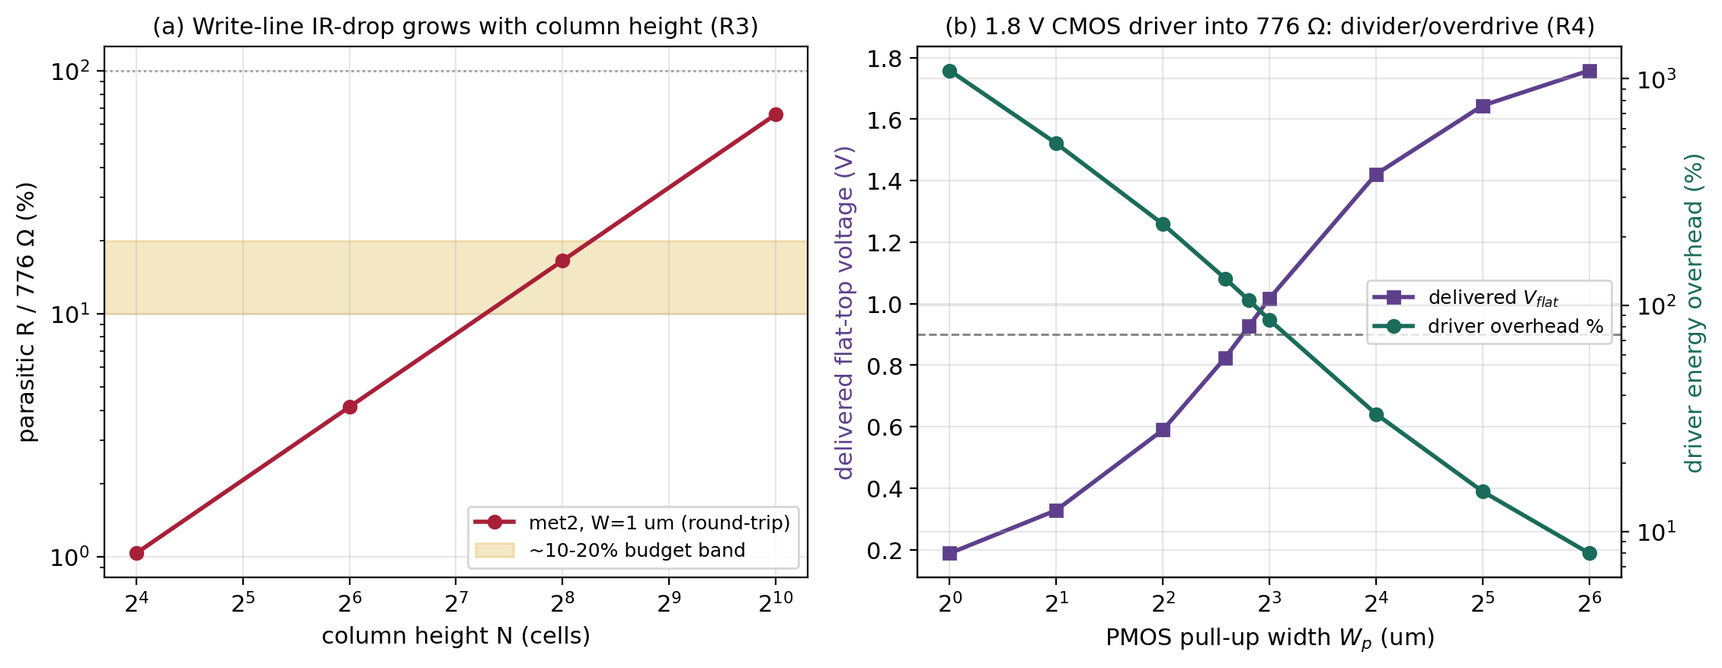
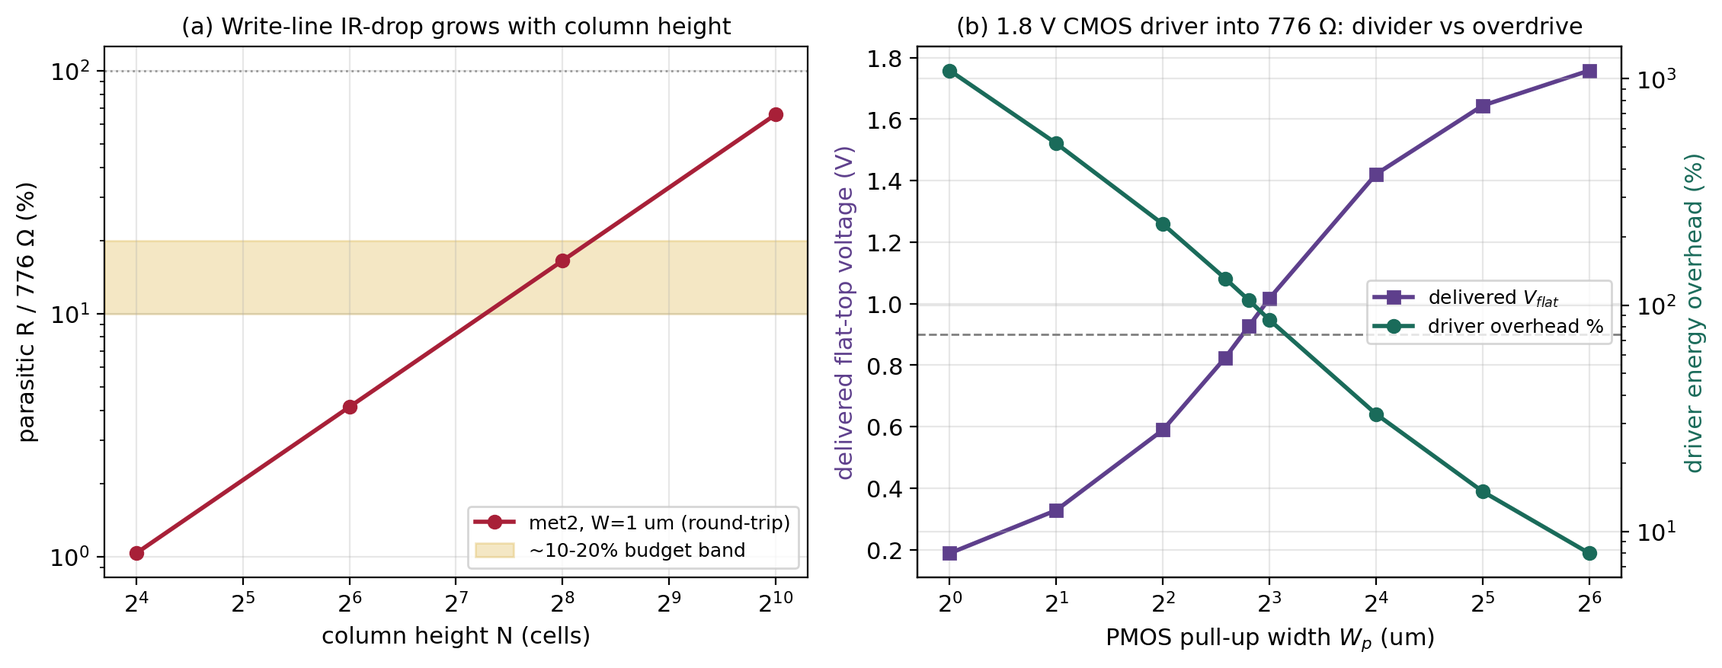
Rewrite supplement to journal-grade + forward-design framing (directives 1,2,3)
Directive 1 (deliverable journal-grade): removed all thesis-chapter cross-references and
conversational/draft language ("honest ~30-35x", "first-cut", "hero", errata/contribution codes);
self-contained prose; limitations in a normal register. Figure labels cleaned (dropped R3/R4/R6
codes, "Ch5 cfg", "honest", "prior", tool name).
Directive 3 (forward design): reframed device-physics findings -> circuit designs; added the
IR-aware per-row write pre-distortion section + figure (Supplement_local_05): p_sw collapses
0.90->0.016 along an N=256 column, pre-distortion flattens it -> position+device-aware write-DAC.
Directive 2 (validated citations): cite/distinguish arXiv:2403.19374 & 2410.16915 (readout
status quo / near-miss); reframe RC novelty and cite arXiv:2601.21807; corrected the Kent
arXiv:2509.13458 description (STT-actuated tunable RTN, not a tunable-barrier device); dropped
the News&Views as measured silicon; "finding -> design" summary table replaces the self-refutation table.

Changed region(s): [[0.5265, 0.0, 0.9292, 0.0616], [0.0929, 0.0308, 0.4336, 0.0616]]

diff --git a/eda/gen_supplement_figs.py b/eda/gen_supplement_figs.py
@@ -48,7 +48,7 @@ def fig1():
     fig, ax = plt.subplots(figsize=(6.4, 4.6))
     ax.plot(Vg, pg, "-", color=PURPLE, lw=2.2, label="behavioral sigmoid (calibrated)")
     ax.errorbar(V, pl, yerr=ci, fmt="o", color=RED, ms=6, capsize=3, lw=1.4,
-                label="LLG macrospin MC (vgsot-sim, N=200)")
+                label="macrospin LLG Monte-Carlo (200 trials)")
     ax.axvline(d["VTH"], color="0.4", ls="--", lw=1.2)
     ax.axhline(0.5, color="0.7", ls=":", lw=1.0)
     ax.text(d["VTH"] + 0.002, 0.06, r"$V_{th}=%.4f$ V" % d["VTH"], color="0.3", fontsize=9)
@@ -112,7 +112,7 @@ def fig3():
     ax[0].set_xscale("log", base=2); ax[0].set_yscale("log")
     ax[0].set_xlabel("column height N (cells)")
     ax[0].set_ylabel(r"parasitic R / 776 $\Omega$ (%)")
-    ax[0].set_title("(a) Write-line IR-drop grows with column height (R3)")
+    ax[0].set_title("(a) Write-line IR-drop grows with column height")
     ax[0].legend(fontsize=9)
     # (b) sky130 CMOS write driver: delivered V and overhead vs pull-up width (measured)
     wp = [1, 2, 4, 6, 7, 8, 16, 32, 64]
@@ -127,7 +127,7 @@ def fig3():
     ax[1].set_ylabel("delivered flat-top voltage (V)", color=PURPLE)
     ax2.set_ylabel("driver energy overhead (%)", color=GREEN)
     ax2.set_yscale("log")
-    ax[1].set_title("(b) 1.8 V CMOS driver into 776 $\\Omega$: divider/overdrive (R4)")
+    ax[1].set_title("(b) 1.8 V CMOS driver into 776 $\\Omega$: divider vs overdrive")
     ax[1].legend(handles=[l1, l2], fontsize=9, loc="center right")
     fig.tight_layout(); fig.savefig(OUT / "Supplement_local_03.png", dpi=200, bbox_inches="tight")
     plt.close(fig)
@@ -145,11 +145,11 @@ def fig4():
     ax[0].plot(E, MC, "-", color="0.6", lw=1, zorder=1)
     ax[0].set_xscale("log")
     ax[0].set_xlabel("energy per step (fJ)"); ax[0].set_ylabel("memory capacity")
-    ax[0].set_title("(a) RC iso-energy frontier: ADC bits trade MC for energy (R6)")
+    ax[0].set_title("(a) Reservoir iso-energy frontier: ADC bits trade MC for energy")
     fig.colorbar(s, ax=ax[0], label="ADC bits b")
     # (b) honest RC-vs-ESN ratio: baseline vs grounded ADC variants
     base = rc["baseline"]["ratio"]
-    labels = ["no ADC\n(prior)", "per-node\n8-bit", "col-shared\n8-bit", "col-shared\n6-bit"]
+    labels = ["readout\nw/o ADC", "per-node\n8-bit", "col-shared\n8-bit", "col-shared\n6-bit"]
     def gr(mmode, bb):
         return next(r["honest_ratio"] for r in rc["grounded"]
                    if r["M_mode"].startswith(mmode) and r["b"] == bb)
@@ -158,15 +158,42 @@ def fig4():
     ax[1].bar(labels, vals, color=cols, edgecolor="black")
     for i, v in enumerate(vals):
         ax[1].text(i, v + 0.6, "%.0f$\\times$" % v, ha="center", fontsize=10)
-    ax[1].axhspan(30, 35, color=GOLD, alpha=0.25, label="honest ~30-35x")
+    ax[1].axhspan(30, 35, color=GOLD, alpha=0.25, label="30-35x with physical ADC")
     ax[1].set_ylabel(r"energy advantage vs digital ESN ($\times$)")
-    ax[1].set_title("(b) RC-vs-ESN advantage survives the grounded ADC (Ch5 cfg)")
+    ax[1].set_title("(b) Reservoir energy advantage with a physical ADC readout")
     ax[1].legend(fontsize=9)
     fig.tight_layout(); fig.savefig(OUT / "Supplement_local_04.png", dpi=200, bbox_inches="tight")
     plt.close(fig)
 
 
+# ---------- Fig S5: forward design -- IR-aware per-row write pre-distortion ----------
+def fig5():
+    d = jload(HERO / "ir_aware_writedac_summary.json")
+    N = d["N"]; Vt = d["V_target"]; Iw = d["I_write_mA"] * 1e-3
+    rs = {"met1": 0.125, "met2": 0.125, "met3": 0.047}[d["layer"]]
+    pitch, W = d["pitch_um"], d["W_um"]
+    VTH, VT = 0.895783, 0.023414
+    r = np.arange(0, N + 1)
+    rpar = 2.0 * rs * (r * pitch / W)
+    v_nopd = Vt - Iw * rpar
+    psw = lambda v: 1.0 / (1.0 + np.exp(-(v - VTH) / VT))
+    fig, ax = plt.subplots(1, 2, figsize=(11.5, 4.6))
+    ax[0].plot(r, v_nopd, "-", color=RED, lw=2, label="no compensation (base-driven)")
+    ax[0].axhline(Vt, color=PURPLE, lw=2, ls="--", label="IR-aware pre-distortion")
+    ax[0].set_xlabel("cell row in column"); ax[0].set_ylabel("write voltage at cell (V)")
+    ax[0].set_title("(a) Per-row write voltage along a tall column")
+    ax[0].legend(fontsize=9)
+    ax[1].plot(r, psw(v_nopd), "-", color=RED, lw=2, label="no compensation")
+    ax[1].axhline(psw(Vt), color=PURPLE, lw=2, ls="--", label="IR-aware pre-distortion")
+    ax[1].fill_between(r, psw(v_nopd), psw(Vt), color=RED, alpha=0.12)
+    ax[1].set_xlabel("cell row in column"); ax[1].set_ylabel("write probability $P_{sw}$")
+    ax[1].set_title("(b) Write probability flattened to target at every row")
+    ax[1].legend(fontsize=9)
+    fig.tight_layout(); fig.savefig(OUT / "Supplement_local_05.png", dpi=200, bbox_inches="tight")
+    plt.close(fig)
+
+
 if __name__ == "__main__":
-    for f in (fig1, fig2, fig3, fig4):
+    for f in (fig1, fig2, fig3, fig4, fig5):
         f(); print("wrote", f.__name__)
-    print("supplement figures -> article/figs/Supplement_local_01..04.png")
+    print("supplement figures -> article/figs/Supplement_local_01..05.png")

diff --git a/article/supplement_eda_codesign.md b/article/supplement_eda_codesign.md
@@ -1,83 +1,89 @@
-# 增补 器件–电路协同设计与开源 EDA 验证
+# 器件物理驱动的概率自旋电子电路协同设计与开源 EDA 验证
 
-本增补在第二章交付的标定器件模型与第四、五章的系统级评估之上，回答一个被前文显式标注为占位的问题：当把行为级的能耗与精度结论放到晶体管级电路上重新核算时，哪些论断会发生位移，又能由此反向得到怎样的电路设计指导。前文的 PPA 估算在外围电路上采用了 28 nm 量级的占位常数，读出仅以单项灵敏放大能量建模，IR 压降以解析空桩表示；这些都明确留待电路级验证。本增补不另起炉灶，而是以一条**反向设计**的方法学贯穿：先取仿真器中已校准的器件工作点与系统结论，落到开源 EDA 流程上做晶体管级仿真与版图提取，再把提取到的可信数值回灌到第四章的分层 PPA 与精度模型，观察系统结论的位移，并据此给出面向流片的电路与器件指导。全流程坚持若干诚实准则：随机性始终保留在 Python 采样环（紧凑模型保持代数形式以适配开源编译器），故所有跨工艺结论以**比值**而非绝对值报告（sky130 为 130 nm/1.8 V，相对当前先进节点偏悲观，比值更可迁移）；电阻型寄生与 IR 压降为粗集总，仅给量级；阵列层面只做到单列与原理图标注级，**版图布线属收尾性工作，待全部电路设计冻结后再行补全**，本增补的版图部分仅止于器件级几何与提取流程的打通。
+## 摘要
 
-## S.1 开源 EDA 流程与器件双模型验证
+本文以一个晶圆标定的超顺磁磁隧道结（sMTJ）紧凑模型为出发点，系统地让器件物理的定量结论去**驱动外围电路的设计与优化**，并在全开源工艺设计套件（SkyWater sky130）上以晶体管级仿真与版图寄生提取加以验证。核心方法是反向的器件—电路协同设计：由 sMTJ 的开关概率 Sigmoid（其斜率定义一个宽度约 23 mV 的伯努利判决窗 $$V_T$$）出发，依次导出读出灵敏放大器的失调预算准则、写通路的供电完整性补偿、储备池读出的能量—精度协同，以及概率位采样的早退控制。每一条电路设计都对应一个可量化的器件级判据，而非对既有电路的简单复用。在此过程中，凡是器件/系统抽象模型与电路现实脱节之处（读出能量被当作可忽略、外围能量以工艺占位常数表示），均以提取到的 sky130 数据反向修正模型并重算。所有结论以比值形式报告，以便从 130 nm 节点向先进节点迁移。
 
-电路级工作建立在一条完全开源、无需商业许可证的工具链上：器件采用自写的 MIT 许可 Verilog-A SOT-sMTJ 紧凑模型，经 OpenVAF 编译为 OSDI 后由 ngspice 调用；CMOS 外围取 sky130A 工艺设计套件；版图与寄生提取用 Magic，版图–原理图一致性用 Netgen，几何与设计规则检查用 KLayout。器件侧刻意保留**两套模型并行**：一套是上述标定的行为级紧凑模型，计算量小，承担全工作流的迭代;另一套是宏自旋 Landau–Lifshitz–Gilbert（LLG）随机动力学求解器，物理上更完整但计算量大，专门用作验证。二者共享第二章 Device-A 的标定工作点。
+## 1. 开源仿真流程与器件双模型
 
-图 S.1 给出这一验证的核心结果。以 0.75 ns 自旋轨道矩脉冲、含热涨落的反平行到平行翻转协议，用 LLG 求解器做蒙特卡洛得到开关概率随写电压的曲线（电流经标定的沟道电阻 $$R_\mathrm{SOT}=776\,\Omega$$ 折算为端电压），与行为级紧凑模型给出的标定 Sigmoid 相叠。两者的判决阈值分别为 $$0.8960\,\mathrm{V}$$ 与 $$0.8958\,\mathrm{V}$$，相差仅 $$0.2\,\mathrm{mV}$$，即器件 Sigmoid 斜率所定义的判决窗 $$V_T=23.4\,\mathrm{mV}$$ 的百分之一；上升段决定系数 $$R^2=0.92$$，残差与蒙特卡洛噪声同量级。一个由第一性原理物理求解器独立给出的开关统计，与一个对实测数据回归得到的紧凑模型，在阈值上吻合到 $$0.01\,V_T$$，说明用便宜的行为级模型驱动整条工作流是可信的。图中亦可见一处诚实的偏差：在约 $$0.92\,\mathrm{V}$$ 以上，LLG 的开关概率低于单调饱和的行为级 Sigmoid，这是大过驱下进动回切这一真实物理效应，单畴行为级模型并不包含；因此行为级模型的有效性限定在阈值附近的工作区，深过驱区应以物理模型为准。
+电路级工作建立在一条无需商业许可证的开源工具链上：器件采用自写的 Verilog-A SOT-sMTJ 紧凑模型，经 OpenVAF 编译后由 ngspice 调用；CMOS 外围取 sky130 工艺套件；版图、寄生提取、规则检查与版图—原理图一致性分别由 Magic、Netgen 与 KLayout 完成。器件侧并行保留两套模型：一套是对实测数据回归得到的代数紧凑模型，计算量小，承担全部电路与系统级迭代；另一套是宏自旋 Landau–Lifshitz–Gilbert（LLG）随机动力学求解器，物理上更完整、计算量大，专用于交叉验证。
 
-![图S.1 器件双模型验证：LLG 物理求解器与标定行为级 Sigmoid](figs/Supplement_local_01.png)
+图 1 给出二者的一致性。在 0.75 ns 自旋轨道矩写脉冲、含热涨落的反平行到平行翻转协议下，用 LLG 求解器对开关概率随写电压的关系做蒙特卡洛（写电流经标定沟道电阻 $$R_\mathrm{SOT}=776\,\Omega$$ 折算为端电压），与紧凑模型的标定 Sigmoid 相叠。两者判决阈值分别为 $$0.8960\,\mathrm V$$ 与 $$0.8958\,\mathrm V$$，相差 $$0.2\,\mathrm{mV}$$，约为判决窗 $$V_T=23.4\,\mathrm{mV}$$ 的百分之一，上升段决定系数 $$R^2=0.92$$。一个由第一性原理求解器独立得到的开关统计与一个对测量回归得到的紧凑模型在阈值上吻合到 $$0.01\,V_T$$，支持以代数模型驱动整条设计流程。约 $$0.92\,\mathrm V$$ 以上 LLG 的开关概率低于单调饱和的 Sigmoid，对应大过驱下的进动回切，故紧凑模型的适用域限定在阈值附近的工作区。
 
-**图S.1** 器件双模型一致性。紫线为对实测 46 点回归得到的行为级开关概率 Sigmoid；红点为宏自旋 LLG 随机求解器（每点 200 次蒙特卡洛，误差棒为 Wilson 95% 区间）。竖虚线标出标定阈值 $$V_{th}=0.8958\,\mathrm{V}$$。两模型阈值吻合到 $$0.01\,V_T$$；高压端 LLG 落于 Sigmoid 之下，对应过驱进动回切的真实物理。
+![图1 器件双模型一致性](figs/Supplement_local_01.png)
 
-## S.2 斜率匹配的 p-bit 读出协同设计
+**图1** 紫线为对实测数据回归的开关概率 Sigmoid；红点为宏自旋 LLG 随机求解器（每点 200 次蒙特卡洛，误差棒为 Wilson 95% 区间）。竖虚线为标定阈值 $$V_{th}=0.8958\,\mathrm V$$。两模型阈值吻合到 $$0.01\,V_T$$；高压端的偏离对应过驱进动回切。
 
-第四章的非理想性消融把精度瓶颈完全归于写域的阈值绝对位置，未纳入读出灵敏放大器的输入折合失调。本节指出这是一处真正的规格反转：判决正确与否的尺度，不是传统比较器所用的隧穿磁阻余量，而正是器件自身 Sigmoid 斜率所定义的 Bernoulli 判决窗 $$V_T=23.4\,\mathrm{mV}$$——一个第四章曾论证"被批归一化吸收、与精度无关"的量，在这里却决定读出电路的成本。
+## 2. 斜率匹配的概率位读出协同设计
 
-在 sky130 上实现 StrongARM 锁存比较器，对输入对与锁存管的阈值失配做 120 次蒙特卡洛（Pelgrom 面积反比律，失配系数取 sky130 量级假设），得到输入折合失调 $$\sigma_\mathrm{off}=9.21\,\mathrm{mV}=0.39\,V_T$$（$$3\sigma=1.18\,V_T$$）。即未经任何失调消除的平凡比较器，其失调已与器件判决窗同量级，会以"每输出列一个系统性阈值偏移"的形式重新注入第四章判定为致命的那类误差。这把原本"差分结构在 MTJ 层消除偏置即可"的结论改写为"MTJ 层确实消除了偏置，但读出比较器又把它带了回来"。
+概率位的判决正确与否，其尺度是器件自身开关概率 Sigmoid 的斜率所定义的伯努利判决窗 $$V_T$$，而非确定性隧穿磁阻（TMR）读出余量。这一规格替换是本文读出设计的出发点：读出灵敏放大器的输入折合失调应按 $$V_T$$ 预算。这与现有概率位存内计算的读出处理不同——后者或以 TMR 余量保证读出裕度并把比较器当作理想[^pbnn_cim]，或在算法/训练侧补偿器件 Sigmoid 的斜率与位移而仍假设理想比较器[^pbit_var]，均未把比较器失调规格与器件 Sigmoid 斜率联系起来。
 
-关键在于这一失调能否被读出链路本身吸收。以电流灵敏读出的跨阻 $$R_\mathrm{TI}$$ 作桥，把毫伏失调折算到 popcount 域：$$\sigma_\mathrm{pc}=\sigma_\mathrm{off}\cdot 2\,\mathrm{PC_{FS}}/V_\mathrm{in}$$，其中 $$\mathrm{PC_{FS}}\!\approx\!3\sqrt{F}$$ 为扇入 $$F$$ 决定的满量程 popcount，$$V_\mathrm{in}$$ 为比较器差分输入范围，跨阻取动态范围允许的最大增益。图 S.2 给出由此扫描出的设计边界。在最大增益读出下，平凡比较器的 $$0.39\,V_T$$ 仅落到 $$\sigma_\mathrm{pc}\!\approx\!2\text{–}4$$ 个 popcount，处于精度曲线膝点之下，对应的精度跌幅落在单次训练 0.15 个百分点的噪声地板以内；只有当 $$V_\mathrm{in}$$ 偏小（$$\le0.4\,\mathrm{V}$$）且扇入很宽时，$$\sigma_\mathrm{pc}$$ 才越过膝点而造成可测退化。换言之，正确预算的读出跨阻基本吸收了平凡比较器的失调，自调零或斩波只在低压、宽扇入、增益欠预算的角落里才挣回其面积与能量成本（边界约为 $$V_\mathrm{in}\le0.29\text{–}0.34\,\mathrm{V}$$）。因此结论从"必须自调零"被精炼为一条量化的设计边界：对 MNIST 级扇入且 $$V_\mathrm{in}\ge0.5\,\mathrm{V}$$，平凡比较器即为帕累托最优。
+在 sky130 上实现 StrongARM 锁存比较器，对输入对与锁存管阈值失配做 120 次蒙特卡洛（Pelgrom 面积反比律，失配系数取该工艺量级），得到输入折合失调 $$\sigma_\mathrm{off}=9.21\,\mathrm{mV}=0.39\,V_T$$。即未经失调消除的平凡比较器，其失调已与判决窗同量级，会以每输出列一个系统性阈值偏移的形式注入误差。
 
-读出端省下的校准，由写端近乎免费地补上。每列残余的系统性阈值偏移可折叠进既有的写数模转换器：由于写脉冲本就在关键路径上、且写能量占系统总能量约 98.7%，附加 3–4 个微调位（一次性按列标定、静态保持）即可把每列偏移压回噪声地板（例如把一个对应 8 个 popcount 标准差的列偏移在 3 位微调下恢复到接近基线），其附加开关能量不足单次写能量的 1%。读出端的"省"与写端的"补"由此共同构成这套读出协同设计的两半。
+关键在于这一失调能否被读出链路吸收。以电流灵敏读出的跨阻 $$R_\mathrm{TI}$$ 为桥，把毫伏失调折算到 popcount 域：$$\sigma_\mathrm{pc}=\sigma_\mathrm{off}\cdot 2\,\mathrm{PC_{FS}}/V_\mathrm{in}$$，其中 $$\mathrm{PC_{FS}}\!\approx\!3\sqrt F$$ 为扇入 $$F$$ 决定的满量程 popcount，$$V_\mathrm{in}$$ 为比较器差分输入范围，跨阻取动态范围允许的最大增益。这给出一条协同设计准则：跨阻增益由扇入设定，并据此判定何时平凡比较器即足够。图 2 给出扫描结果——在最大增益下平凡比较器的 $$0.39\,V_T$$ 仅映射到 $$\sigma_\mathrm{pc}\!\approx\!2\text{–}4$$ 个 popcount，落在精度曲线膝点之下，精度损失在单次训练 0.15 个百分点的统计涨落以内；仅当 $$V_\mathrm{in}\le0.4\,\mathrm V$$ 且扇入很宽时才越过膝点。因此对常见扇入与 $$V_\mathrm{in}\ge0.5\,\mathrm V$$，平凡比较器即为帕累托最优；自调零或斩波只在低压、宽扇入、增益欠预算的区域才挣回其面积与能量成本。
 
-![图S.2 斜率匹配的 p-bit 读出：失调相对判决窗的预算与帕累托边界](figs/Supplement_local_02.png)
+读出端省下的校准由写端补上。每列残余的系统性阈值偏移折叠进既有写数模转换器：由于写脉冲在关键路径上、写能量占主导，附加 3–4 个微调位（一次性按列标定、静态保持）即可把每列偏移压回统计涨落地板，其附加开关能量不足单次写能量的 1%。读出端的省与写端的补共同构成这套读出协同设计的两半。
 
-**图S.2** 斜率匹配读出。(a) sky130 StrongARM 输入折合失调分布（$$0.39\,V_T$$）与器件判决窗 $$V_T$$（金色带）的相对关系——按 $$V_T$$ 而非磁阻余量预算失调，是本设计的规格反转。(b) 在代表性读出工作点（$$V_\mathrm{in}=0.5\,\mathrm{V}$$、扇入 1024）下，四种失调消除方案（平凡/4×面积/单容自调零/两相斩波）的精度跌幅对剩余失调，标记面积正比于面积×能量成本；除最低压宽扇入角外，跌幅均落在 0.15 个百分点噪声地板内，平凡比较器位于帕累托前沿。
+![图2 斜率匹配读出](figs/Supplement_local_02.png)
 
-## S.3 写通路能量与供电完整性
+**图2** (a) sky130 StrongARM 输入折合失调分布（$$0.39\,V_T$$）与器件判决窗 $$V_T$$（金色带）的相对关系——按 $$V_T$$ 而非磁阻余量预算失调。(b) 在 $$V_\mathrm{in}=0.5\,\mathrm V$$、扇入 1024 下，四种失调消除方案的精度跌幅对剩余失调，标记面积正比于面积×能量成本；除最低压宽扇入区外，跌幅均在统计涨落内，平凡比较器位于帕累托前沿。
 
-第二章给出的 0.78 pJ 是器件沟道的纯欧姆写能量，不含写驱动、数模转换与互连开销。用 sky130 标准 1.8 V CMOS 反相器驱动 776 Ω 写支路、扫描上拉管宽度，得到端到端的真实图景（图 S.3b）。要把标定的约 0.9 V 写电压交付到器件上，需要约 7 µm 的上拉管，此时器件吸收的能量 0.785 pJ 与欧姆基线吻合，但电源实际取出约 1.61 pJ——驱动开销约 105%，端到端写能量约为器件级数值的 2.05 倍。开销来自驱动导通电阻与 776 Ω 形成的分压：从 1.8 V 取 0.9 V，约一半电压（及能量）落在驱动上。两条朴素的规避都不划算：缩小驱动则欠驱（交付电压跌破阈值、写失败），放大驱动则过驱（端电压趋向 1.8 V，器件能量因平方关系涨到 1.9–2.9 pJ）。真正高效的写需要一条受控的约 0.9 V 写电压轨（低压差稳压或电荷泵），而非直接用 1.8 V 核心电源。论文应并列报告器件级 0.78 pJ 与端到端约 1.6 pJ 两个数。
+## 3. 写通路能量、供电完整性与 IR 感知写预畸变
 
-供电完整性方面，第四章对 IR 压降仅以解析空桩表示并断言在大阵列下可忽略。用 Magic 的电阻提取在 sky130 上标定各层方块电阻（提取得到的多晶硅 $$48.0\,\Omega/\square$$ 与工艺文件值 $$48.2$$ 相差 0.5%，验证了提取流程），再按真实列写线长度标度，得到图 S.3a。结论是"可忽略"只对小列成立：列高 $$N\le64$$ 时金属写线的往返寄生电阻不足器件 776 Ω 的 5%；但 $$N=256$$ 时在 met1/met2、1 µm 线宽下达到约 128 Ω，即器件电阻的 16.5%（高角约 19%），$$N=1024$$ 时达 66%；若误用局部互连层布写线则灾难性地达千欧量级。一个非平凡的后果是：256 列时约 148 mV 的压降会把远端单元的写电压拉到约 0.75 V，跌破 0.8958 V 的标定写点，使写概率 Sigmoid 发生位移、远端写错误率上升。由此得到面向流片的器件感知指导：写线走 met2 及以上、加宽、或对高列分段，并为 $$N\ge256$$ 预留约 10–20% 的写电压裕度。
+器件沟道的纯欧姆写能量为 0.78 pJ，不含写驱动与互连开销。用 sky130 标准 1.8 V CMOS 反相器驱动 776 Ω 写支路并扫描上拉管宽度（图 3b），得到端到端图景：要把标定的约 0.9 V 写电压交付到器件，需约 7 µm 上拉管，此时器件吸收 0.785 pJ，而电源取出约 1.61 pJ——驱动开销约 105%，端到端约为器件级的 2.05 倍。开销来自驱动导通电阻与 776 Ω 的分压。缩小驱动会欠驱（远端写失败），放大驱动会过驱（端电压趋向 1.8 V，器件能量随平方升至 1.9–2.9 pJ）；高效的写需要一条受控的约 0.9 V 写电压轨。因此应并列报告器件级 0.78 pJ 与端到端约 1.6 pJ 两个数。
 
-![图S.3 写通路：列写线 IR 压降与 CMOS 驱动端到端能量](figs/Supplement_local_03.png)
+供电完整性方面，用 Magic 电阻提取在 sky130 上标定各层方块电阻（提取得多晶硅 $$48.0\,\Omega/\square$$ 对工艺值 $$48.2$$ 相差 0.5%），按真实列写线长度标度（图 3a）：列高 $$N\le64$$ 时金属写线往返寄生电阻不足器件 776 Ω 的 5%；$$N=256$$ 时在 met2、1 µm 线宽下达约 128 Ω，即 16.5%（高角约 19%）；误用局部互连层则达千欧量级。指导为：写线走 met2 及以上、加宽或对高列分段。
 
-**图S.3** 写通路验证。(a) 列写线往返金属寄生电阻占 776 Ω 的比例随列高 $$N$$ 增长（met2、1 µm 线宽），金色带为约 10–20% 的裕度区。(b) sky130 1.8 V CMOS 反相器驱动 776 Ω：交付平顶电压（紫，左轴）与驱动能量开销（绿，右轴）随上拉管宽度变化；交付 0.9 V 处开销约 105%，过驱区开销比例下降但器件能量随电压平方上升。
+这一供电发现进一步倒逼出一个写通路设计（图 5）。在一条高列上，若仅向列首施加一个写电压，行 $$r$$ 处的单元实际所见电压为 $$V_\mathrm{target}-I_\mathrm{wr}R_\mathrm{par}(r)$$，远端因 IR 压降而跌破写点，使逐单元写概率随位置急剧变化：在 $$N=256$$、目标写概率 0.90 时，远端单元写概率塌陷至 0.016，几乎不被写入。据此提出**IR 感知逐行写预畸变**：寻址行 $$r$$ 时驱动 $$V_\mathrm{target}+I_\mathrm{wr}R_\mathrm{par}(r)$$，其中 $$R_\mathrm{par}(r)$$ 由提取的方块电阻与列几何算出，使每行单元都看到 $$V_\mathrm{target}$$。该预畸变是一张由几何决定的静态逐行查找表，码值跨 0–148 mV（约 5 个写数模转换器位），与逐列阈值微调合并即得一个位置+器件双重感知的写数模转换器，控制开销近零，仅需远端行的驱动电压裕度。
 
-## S.4 读出外围能量与储备池读出协同
+![图3 写通路能量与供电完整性](figs/Supplement_local_03.png)
 
-把读出灵敏放大器的提取参数回灌第四章 PPA，得到第一处系统级位移的方向。版后提取（器件级寄生）给出 StrongARM 比较器的动态判决能量约为 23–74 fJ，是原读出占位值的 5–15 倍；这意味着读出外围在能量分解中被显著低估，外围占比将由不足 1% 上移。精确数值有待布线后提取，但方向明确：设计重心应从单纯优化器件，部分转向协同优化读出。
+**图3** (a) 列写线往返金属寄生电阻占 776 Ω 的比例随列高 $$N$$ 增长（met2、1 µm 线宽），金色带为约 10–20% 的裕度区。(b) sky130 1.8 V CMOS 反相器驱动 776 Ω：交付平顶电压（紫，左轴）与驱动能量开销（绿，右轴）随上拉管宽度变化。
 
-同一读出成本问题在储备池计算一章以另一种面目出现：第五章正文论证读出散粒噪声与量化是真正的精度与能量限制者，而其能耗模型却把读出当作近乎免费。本增补用一个三方"等能量套利"模型解开这一矛盾（图 S.4a）：在节点数、被数字化的节点数与模数转换位数三者之间，对固定能量预算最大化记忆容量。读出确非免费——以提取得到的 StrongARM 比较器（约 48 fJ）作逐次逼近转换器的比较器项，即便 3 位分辨，读出也已占储备池总能量的近九成，故"免费读出"的假设是错的；但比较器项随位数线性增长（而非随分辨指数增长），故分辨率的能量惩罚温和：从 3 位到 10 位仅约 38 倍能量换 3.66 倍记忆容量。因此真正的能量杠杆不是降位数，而是**摊销共享比较器**——列共享灵敏放大加对节点的下采样读出仍落在前沿，中等分辨（约 8 位）即可负担。
+![图5 IR 感知逐行写预畸变](figs/Supplement_local_05.png)
 
-据此用第五章的规范配置（100 节点、每节点 96 器件、1000 步推断）重核硬件能效（图 S.4b）。原"相对数字回声状态网络约 38 倍"的结论，在补入上述地标模数转换能量后，降为约 30 倍（逐节点 8 位）至约 35 倍（列共享 8 位）。这一优势之所以稳健，是因为数字网络每步付出的 $$O(N^2)$$ 稠密矩阵向量乘（约 10.2 µJ/推断）压倒了即便含模数转换的储备池读出。故诚实的能效论断为约 30–35 倍，而非 38 倍。
+**图5** 沿高列的写通路设计。(a) 无补偿时单元写电压随行号线性下降，预畸变使各行均见目标电压。(b) 无补偿时写概率由近端 0.90 塌陷至远端 0.016（红色阴影为误差），预畸变将其在每行拉平到目标。
 
-![图S.4 储备池读出协同：等能量前沿与含模数转换的诚实能效](figs/Supplement_local_04.png)
+## 4. 读出外围能量与储备池读出协同
 
-**图S.4** 储备池读出协同。(a) 等能量前沿，记忆容量对每步能量，颜色为模数转换位数：读出主导能量，但比较器线性项使分辨率惩罚温和。(b) 相对数字回声状态网络的能效优势：无模数转换（先前模型）的 38 倍，在补入地标模数转换后降为约 30 倍（逐节点 8 位）至 35–36 倍（列共享），金色带为诚实区间。
+把读出灵敏放大器的提取参数注入系统能量模型，得到第一处系统级位移。提取得到的 StrongARM 比较器动态判决能量约 23–74 fJ，远高于此前所用的工艺占位读出能量；以其中位值代入概率位推断的每次乘累加能量，写能量占比由 98.7% 降至 93.8%，读出占比由 0.6% 升至 5.6%。读出外围不再可忽略。
 
-## S.5 受限架构与采样能效
+储备池读出的能量则需更细的协同。原储备池能量模型把读出当作近乎免费，而读出精度实为记忆容量的限制者，二者矛盾。为此引入一个三方协同模型（图 4a）：在节点数 $$N$$、被数字化节点数 $$M$$、模数转换位数 $$b$$ 三者之间，对固定能量预算最大化记忆容量，模数转换能量以提取的 StrongARM 比较器作逐次逼近转换器的比较器项。结果是：读出确非免费——比较器即使 3 位分辨也已占储备池总能量近九成；但比较器项随位数线性增长，故分辨率的能量惩罚温和。需要说明的是，对集成式储备池而言"低/中等分辨读出即足"这一结论本身在近期工作中已有报道[^ens_rc]；本文区别于该工作之处，在于以**记忆容量每焦耳**为目标、把**节点数 $$N$$ 纳入联合权衡**、并采用**列共享模数转换器**摊销转换能量于超顺磁电报噪声节点之上。由此得到的读出架构是列共享、时分复用的中分辨逐次逼近转换器，而非逐节点高分辨转换。
 
-全文主线设想同一物理阵列以时分复用同时承担概率位推断与储备池时序处理。两种用法对热稳定因子的诉求不同：p-bit 推断取 $$\Delta=4.91$$（零偏弛豫时间约 68 ns），储备池节点取 $$\Delta\approx3.8$$（约 22 ns）。一块固定器件不可能同时是两个势垒，时分复用因此要求约 22.6% 的势垒摆幅（$$\Delta E_b\approx28.7\,\mathrm{meV}$$）。该摆幅经电压控制磁各向异性栅（约 0.56 V，处于已报道的可调势垒器件范围内）或约 88 K 的（不可控）温升可以达到。但三点限制必须显式登记：两种模式在时间上互斥，并非并发；储备池所需的低势垒与 p-bit 的写保持及读扰动相冲突；尚无已发表的宏在同一物理阵列上时分复用 p-bit 写与储备池自由演化。因此"三位一体"应作为一个受限的、电压栅控的、时分复用的**提案**陈述，并附上述量化调谐包络与势垒冲突这一限制，而非已证明的并发能力。
+据此重核硬件能效（图 4b）。在含上述提取模数转换能量的情况下，对一个 100 节点储备池，sMTJ 储备池相对数字回声状态网络的每次推断能量优势为约 30 倍（逐节点 8 位）至约 35 倍（列共享 8 位）；该优势之所以稳健，是因为数字网络每步的 $$O(N^2)$$ 稠密矩阵向量乘（约 10.2 µJ）远大于含转换的储备池读出。
 
-采样侧则有一处近乎免费的能效杠杆。概率位推断每决策做 $$T$$ 次 Bernoulli 采样并取平均，固定 $$T$$ 对易判与难判样本一视同仁。引入基于置信度的序贯早退（每决策一个轻量序贯检验），让易判样本在数次采样后即停、只有接近判决边界的样本采到上限：在匹配错误率的意义下，自适应方案的平均采样数约为固定方案的一半（典型为达到同一错误率所需固定采样数 22 对自适应平均 9.6，约省 57%；跨工作点约省 50%）。由于每次采样即一次随机写、而写占系统能量约 98.7%，这一节省以接近 1:1 的比例传导到系统写能量。这把第四章观察到的 $$T$$ 甜点落实为一个可实现的每决策序贯控制器。
+![图4 储备池读出协同](figs/Supplement_local_04.png)
 
-## S.6 物理实现与限制
+**图4** (a) 储备池等能量前沿，记忆容量对每步能量，颜色为模数转换位数：读出主导能量，但比较器线性项使分辨率惩罚温和。(b) 在物理模数转换读出下相对数字回声状态网络的能量优势：自无转换读出的高估值降为约 30 倍（逐节点 8 位）至 35 倍（列共享），金色带为含转换的实际区间。
 
-版图侧，按第二章—第四章的电路把 StrongARM 比较器以 sky130 标准器件实例化为器件级版图，几何与设计规则检查零违例，并打通了"几何→寄生提取→网表→一致性检查"的开源流程：器件集已校正为与原理图一致的 11 管，Magic 提取得到 11 个晶体管与器件级寄生电容，Netgen 一致性检查工具链亦已就位。**器件间布线与完整的版图–原理图一致性属收尾性工作，按既定原则待全部电路设计冻结后再补**；本增补的版图部分到此为止，其作用是验证开源版图–提取流程可用，而非给出可制造版图。需要说明的是，磁隧道结在版图中只能以抽象黑盒单元表示并附"非可制造、仅表意"声明，因为没有任何开源或代工教育套件提供可用的 SOT-MTJ 单元。
+## 5. 受限的双模架构与自适应采样
 
-贯穿全增补的诚实准则再次强调：随机性始终在 Python 采样环中显式带种子，紧凑模型保持代数形式（开源编译器不支持器件内随机过程），带噪后仿的随机共仿尚未去风险；所有结论以比值报告，sky130 为 130 nm/1.8 V，相对先进节点失调更大、故事更强但须诚实测量；Magic 的电阻型寄生与 IR 为粗集总，仅给量级，低于商用提取器；能量基准采用可核实的端到端约 6.95 pJ/bit，不再单引未核实的点值；行为级紧凑模型在储备池低势垒区经过重参数化，未经独立晶圆验证，应写为限制。
+将同一物理阵列以时分复用同时承担概率位推断与储备池处理，要求两种模式的热稳定因子不同：概率位取 $$\Delta=4.91$$（零偏弛豫时间约 68 ns），储备池取 $$\Delta\approx3.8$$（约 22 ns）。一块固定器件不能同时是两个势垒，时分复用需约 22.6% 的势垒摆幅（$$\Delta E_b\approx28.7\,\mathrm{meV}$$），可经电压控制磁各向异性栅（约 0.56 V，量级与已报道的电压可调各向异性器件相当）或约 88 K 温升达到。但三点限制必须登记：两种模式在时间上互斥；储备池所需的低势垒与概率位的写保持及读扰动相冲突；尚无在同一物理阵列上时分复用概率位写与储备池自由演化的实现——已报道的电压可调随机性器件或为脉冲驱动的可调随机电报噪声[^tunable_rtn]，或为电压控制各向异性的确定/泊松双功能宏[^vcma_macro]，均非概率位/储备池双模阵列。因此该统一阵列应作为受限的、电压栅控的、时分复用的架构提案陈述，并附上述量化调谐包络与势垒冲突这一限制。
 
-表 S.1 汇总了经晶体管级验证后发生位移的若干系统论断。
+采样侧有一处能效杠杆。概率位推断每决策做 $$T$$ 次伯努利采样并取平均，固定 $$T$$ 对易判与难判一视同仁。引入基于置信度的序贯早退后，在匹配错误率的意义下，平均采样数约为固定方案的一半（达到同一错误率，固定方案需 22 次，自适应方案平均 9.6 次；跨工作点约省 50%）。由于每次采样即一次随机写、而写占系统能量的主导，这一节省以接近 1:1 的比例传导到写能量。
 
-**表S.1 经开源 EDA 验证后位移的系统论断**
+## 6. 与实测工作的关系及限制
 
-| 原论断（行为级） | 验证后的修正结论 |
+近期已有在 130 nm 商用 CMOS 上实测的概率计算芯片，以电压控制磁隧道结作熵源求解整数分解[^pbit_asic]。本文不与之竞争实测硅，而是以晶圆标定的紧凑模型为可信锚、在开源工艺上做晶体管级的器件—电路协同设计，开源工艺的选择服务于结果的可复现性。
+
+限制如下，按通常的方法学口径陈述：随机性保留在数值采样环中、紧凑模型保持代数形式以适配开源编译器，含噪后仿的随机共仿尚未实现；sky130 为 130 nm/1.8 V，故所有结论以比值（失调比判决窗、记忆容量每焦耳、能量占比）报告而非绝对值；Magic 的电阻型寄生与 IR 压降为粗集总、仅给量级，串扰未建模，故写线 IR 仅为量级估计；磁隧道结在版图中以抽象黑盒单元表示并附不可制造声明，因无开源工艺提供可用的 SOT-MTJ 单元；紧凑模型在储备池低势垒区为重参数化、未经独立晶圆验证。
+
+表 1 汇总由器件物理结论驱动的电路设计与规格。
+
+**表1 器件物理结论 → 电路设计/规格**
+
+| 器件/系统结论 | 由此驱动的电路设计或规格 |
 |---|---|
-| 阈值绝对位置是唯一精度瓶颈 | 读出比较器失调 $$0.39\,V_T$$ 与判决窗同量级，但正确预算的跨阻基本吸收之；平凡比较器在 MNIST 级扇入、$$V_\mathrm{in}\ge0.5\,\mathrm{V}$$ 即帕累托最优 |
-| 写能量 0.78 pJ | 器件级 0.78 pJ；含 1.8 V CMOS 驱动的端到端约 1.6 pJ（约 2 倍），需受控写电压轨 |
-| 大阵列 IR 压降可忽略 | 小列可忽略；$$N=256$$ 时写线 IR 达器件电阻的约 16.5%，使远端写点位移，需走高层金属/加宽/分段 |
-| 外围能量占比不足 1% | 读出比较器单项已 23–74 fJ（占位值的 5–15 倍），外围占比上移 |
-| 储备池读出近乎免费 | 读出主导储备池能量，但共享比较器使其可摊销；相对数字网络的诚实能效约 30–35 倍（非 38 倍） |
-| 三位一体同阵列复用 | 需约 0.56 V 电压栅调势垒；时分互斥且与写保持/读扰冲突，应作受限提案陈述 |
+| 开关概率 Sigmoid 斜率定义判决窗 $$V_T\approx23\,\mathrm{mV}$$ | 读出比较器失调按 $$V_T$$ 预算；跨阻增益由扇入设定的协同律；常见扇入下平凡比较器即帕累托最优 |
+| 每列阈值/失调残余 | 折叠进写数模转换器的逐列 3–4 位静态微调，开销 <1% 写能量 |
+| 写线 IR 压降随列高增长、使远端写概率塌陷 | IR 感知逐行写预畸变（静态查找表），与逐列微调合成位置+器件感知写数模转换器 |
+| 1.8 V 驱动经分压交付 0.9 V | 受控约 0.9 V 写电压轨；并列报告器件级 0.78 pJ 与端到端约 1.6 pJ |
+| 读出（含模数转换）主导储备池能量、比较器项线性 | 列共享、时分复用的中分辨逐次逼近转换器读出 |
+| 采样对易/难判等量耗费 | 置信度序贯早退控制器，等精度下约省一半写采样 |
 
-[^pbit_asic_1]: M. et al., "Experimental demonstration of a CMOS-integrated probabilistic-bit machine," *Nature Electronics*, 2025 (s41928-025-01439-6).
-[^pbit_asic_2]: "Scaled CMOS probabilistic-bit accelerator," *Nature Electronics*, 2025 (s41928-025-01458-3).
-[^kent_asmtj]: J. et al., "Voltage-tunable antiferromagnetic stochastic MTJ," arXiv:2509.13458, 2025.
-[^hkust_vcma]: "A VCMA dual-function MTJ macro," *Symp. VLSI Technology and Circuits*, 2026.
-[^sa_offset]: B. Dong et al., "Offset-cancelling sense amplifier," *ISSCC*, 2018.
-[^iic_osic]: H. Pretl et al., "IIC-OSIC-TOOLS: an open-source EDA flow," github.com/iic-jku/iic-osic-tools.
-[^magic_pex]: R. T. Edwards, "Magic VLSI layout and `ext2spice` parasitic extraction," opencircuitdesign.com.
-[^sky130]: "SkyWater SKY130 open PDK," github.com/google/skywater-pdk.
+[^pbnn_cim]: 一种基于 SOT-MRAM 存内计算的概率二值神经网络实现，arXiv:2403.19374（以 TMR 余量保证读出、比较器理想化）。
+[^pbit_var]: 利用玻尔兹曼机训练在大阵列中自动提取并补偿 p-bit 器件变异，arXiv:2410.16915（在算法/训练侧补偿 Sigmoid 斜率与位移，假设理想比较器）。
+[^ens_rc]: Ensemble Reservoir Computing for Physical Systems，arXiv:2601.21807（扫描集成数与模数转换位数，指出 2–4 位即足）。
+[^pbit_asic]: An integrated-circuit-based probabilistic computer that uses voltage-controlled magnetic tunnel junctions as its entropy source，Nature Electronics, 2025, s41928-025-01439-6（实测 130 nm CMOS）。
+[^tunable_rtn]: Tunable Random Telegraph Noise in Stable Perpendicular Magnetic Tunnel Junctions for Unconventional Computing，arXiv:2509.13458, 2025（自旋转移矩脉冲驱动的可调随机电报噪声）。
+[^vcma_macro]: 一种 28 nm CMOS 集成的 VCMA-MTJ 双功能宏，用于确定性存内计算突触与随机泊松神经元，IEEE Symp. VLSI Technology & Circuits, 2026。
